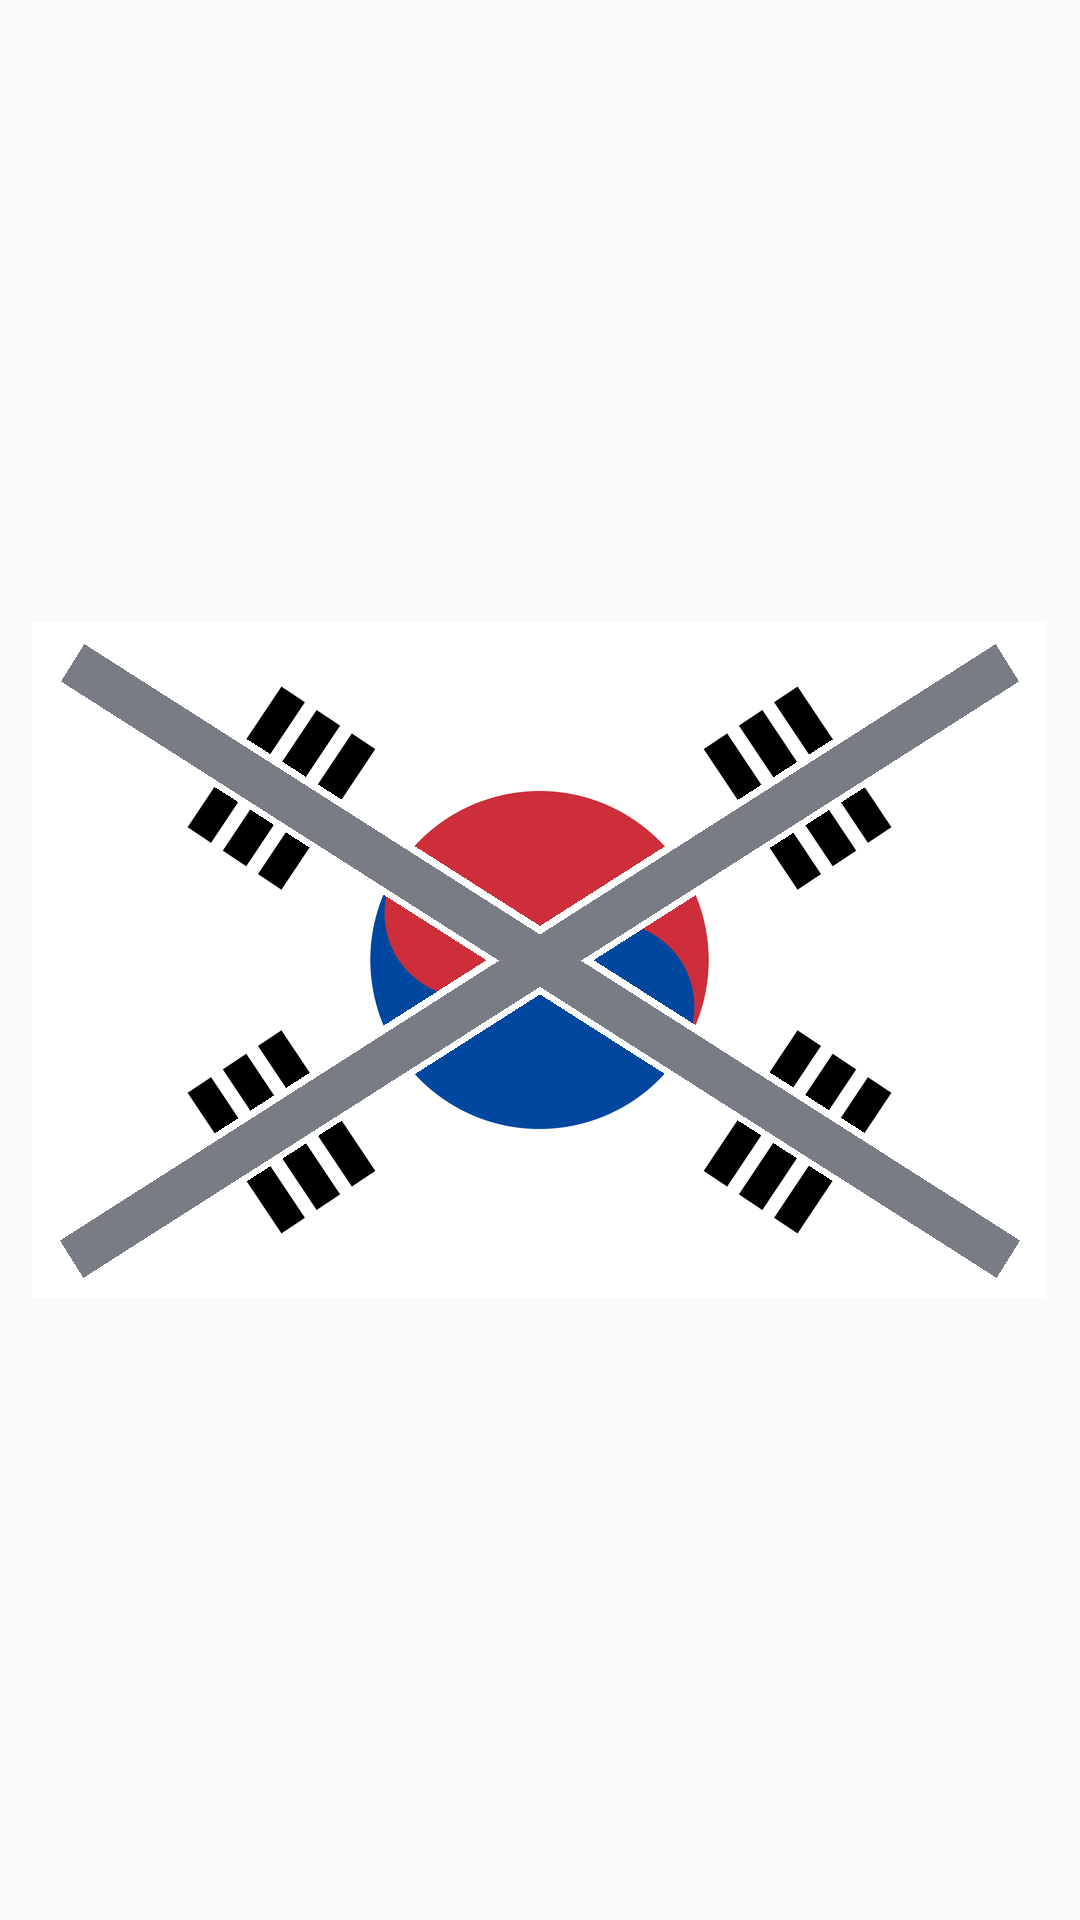
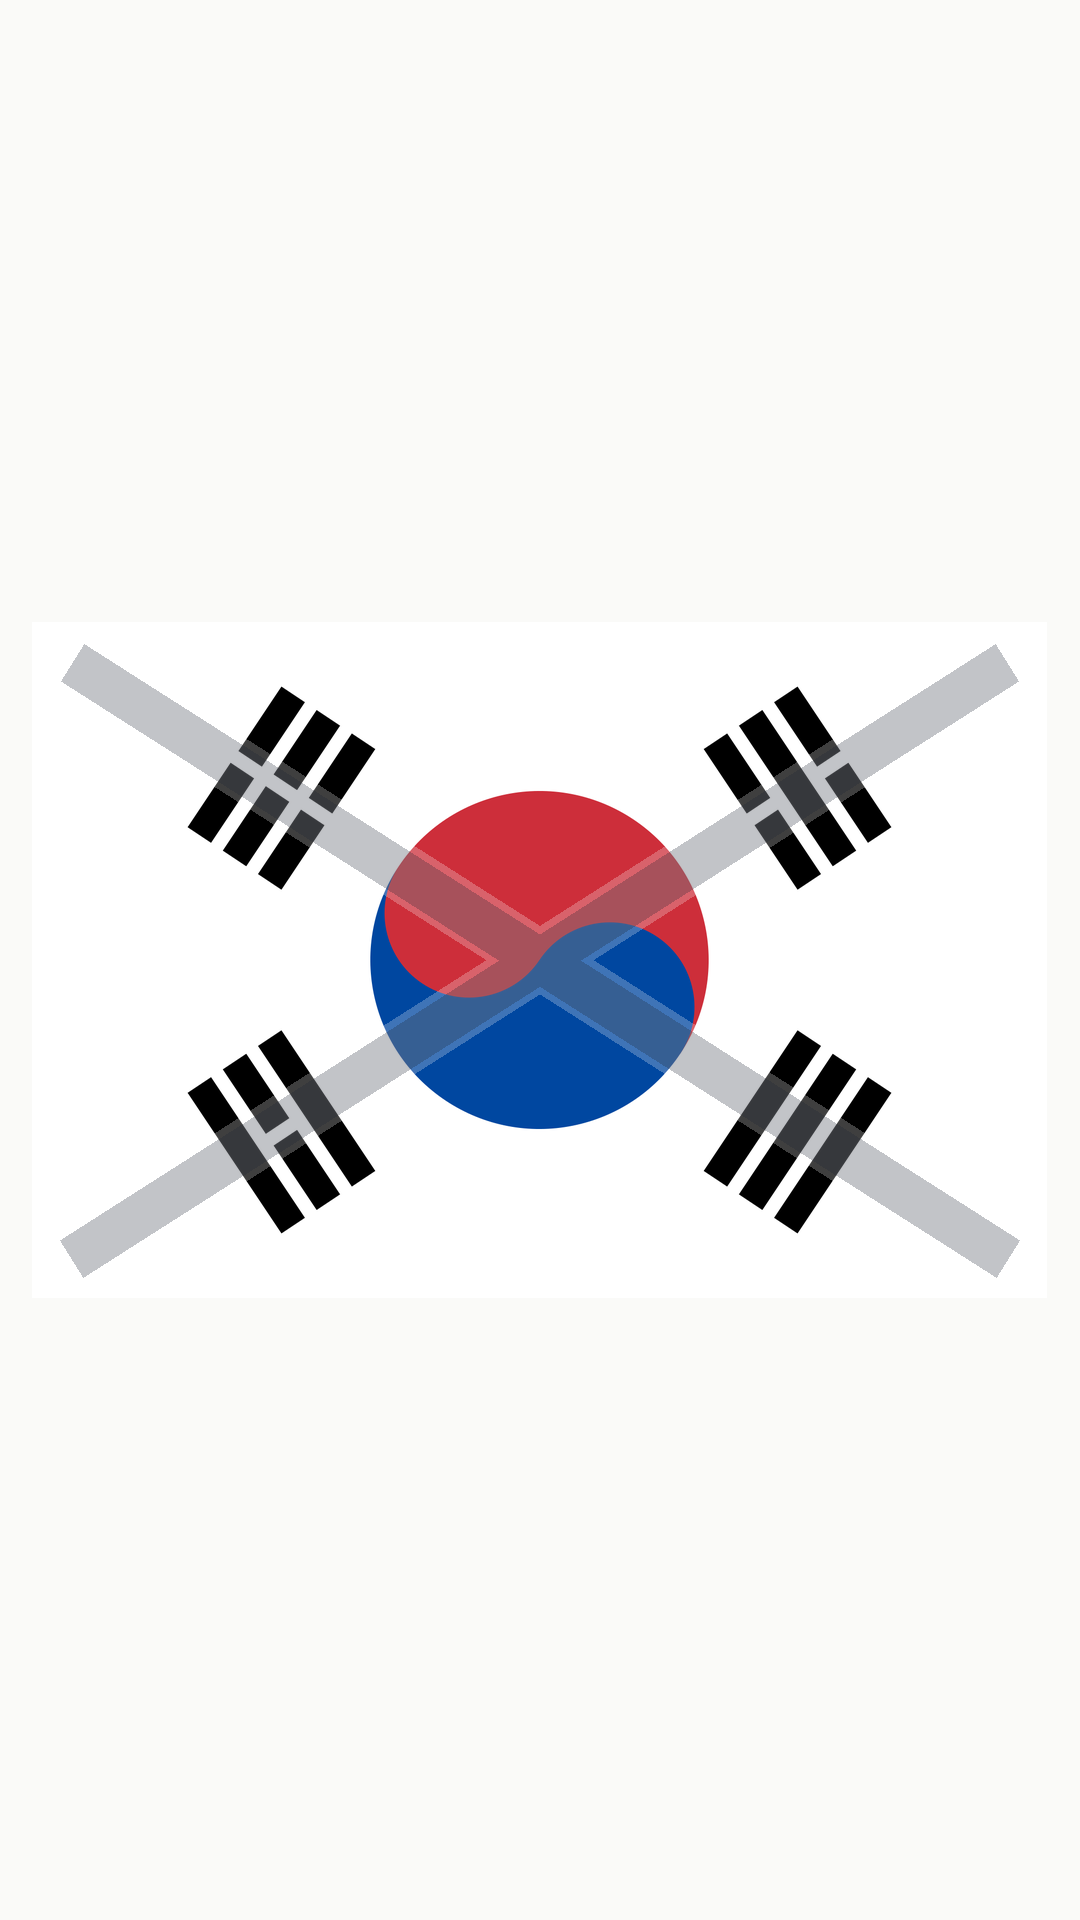
태극기 퀴즈편 완성: X 반투명·고정 배경(file! 스킴)·light-bg 스크림·훅 레이아웃
- 오답 X를 반투명으로 (괘·태극이 비쳐야 오답 판단 가능 — 디렉터)
- file!: 스킴 신설 = 켄번즈 없이 고정 (문제 화면은 움직이면 안 된다)
- --light-bg: 흰 도판 배경용 약한 스크림 (흰 배경이 회색으로 죽던 문제)
- still 렌더는 확대·크롭 없이 그대로 (정답 태극기 잘림 수정)
- 훅 연장 + 4보기가 자막에 안 가리게 배치

Changed region(s): [[0.0611, 0.3125, 0.9472, 0.6875]]

diff --git a/pipeline/make_short.py b/pipeline/make_short.py
@@ -331,7 +331,7 @@ def make_glow(r, color, alpha):
     ImageDraw.Draw(im).ellipse([r * 0.3, r * 0.3, s - r * 0.3, s - r * 0.3], fill=color + (alpha,))
     return im.filter(ImageFilter.GaussianBlur(r * 0.35))
 
-def render(script, timeline, out_dir, total_dur, channel_chip, video_bg, fx_underline=False):
+def render(script, timeline, out_dir, total_dur, channel_chip, video_bg, fx_underline=False, light_bg=False):
     """video_bg=True → 투명 오버레이 PNG(+스크림), False → 그라데이션 JPG."""
     if not video_bg:
         BG = make_bg()
@@ -377,6 +377,8 @@ def render(script, timeline, out_dir, total_dur, channel_chip, video_bg, fx_unde
     # (상단 칩존 150 / 중앙 95 — 배경이 살아남 / 자막존 160 — 대비 확보 / 하단 140)
     scrim = Image.new("RGBA", (W, H))
     _sd = ImageDraw.Draw(scrim)
+    # 흰 도판(퀴즈·비교 이미지) 배경은 스크림이 과하면 회색으로 죽는다 → --light-bg로 약화 (2026-08-15)
+    _k = 0.42 if light_bg else 1.0
     for _y in range(H):
         r = _y / H
         if r < 0.16:  a_ = 150
@@ -385,7 +387,7 @@ def render(script, timeline, out_dir, total_dur, channel_chip, video_bg, fx_unde
         elif r < 0.72: a_ = 160
         elif r < 0.80: a_ = int(160 + (140 - 160) * (r - 0.72) / 0.08)
         else:          a_ = 140
-        _sd.line([(0, _y), (W, _y)], fill=(0, 0, 0, a_))
+        _sd.line([(0, _y), (W, _y)], fill=(0, 0, 0, int(a_ * _k)))
 
     for fi in range(total):
         t = fi / FPS
@@ -522,6 +524,7 @@ def main():
     ap.add_argument("--no-fx-zoom", dest="fx_zoom", action="store_false", help="슬로우 줌 끄기")
     ap.set_defaults(fx_xfade=True, fx_zoom=True)   # 2026-08-09 디렉터 채택 ("0+1+2로") — 기본 on
     ap.add_argument("--fx-underline", action="store_true", help="강조어 ACCENT 밑줄")
+    ap.add_argument("--light-bg", action="store_true", help="흰 도판 배경용 약한 스크림 (2026-08-15)")
     ap.add_argument("--fx-sfx", action="store_true", help="배경 전환 소프트 스윕음 (-18dB)")
     ap.add_argument("--no-fx-cine", dest="fx_cine", action="store_false", help="시네마틱 톤 끄기")
     ap.set_defaults(fx_cine=True)   # 2026-08-11 디렉터 채택 ("영상은 일단 ㅇㅋ") — 기본 on
@@ -782,7 +785,7 @@ def main():
                     if p is None:
                         sys.exit("기각: 지정 사진 %s 다운로드 실패" % b)
                     cache[b] = {"kind": "photo", "path": p}
-                elif isinstance(b, str) and b.startswith("file:"):
+                elif isinstance(b, str) and (b.startswith("file:") or b.startswith("file!:")):
                     # 로컬 파일 배경 (make_long.py와 동일 스킴, 2026-08-12)
                     p = b.split(":", 1)[1]
                     if not os.path.isabs(p):
@@ -791,8 +794,14 @@ def main():
                         sys.exit("기각: 지정 로컬 배경 %s 없음" % p)
                     if os.path.splitext(p)[1].lower() in (".jpg", ".jpeg", ".png", ".webp"):
                         # 로컬 사진 → 켄 번즈 (2026-08-13 유성우 실사진 편: CC/PD 소스는 Pexels 밖에서 온다)
-                        print("배경 사진(로컬, 켄 번즈): %s" % os.path.basename(p), flush=True)
-                        cache[b] = {"kind": "photo", "path": p}
+                        # 단 "file!:" 처럼 '!'를 붙이면 고정(줌 없음) — 문제 화면·비교 도판처럼
+                        # 화면 전체를 한눈에 봐야 하는 배경용 (2026-08-15 디렉터: "포커싱 이동 말고 중앙에 그냥 떠있게")
+                        if b.startswith("file!:"):
+                            print("배경 사진(로컬, 고정): %s" % os.path.basename(p), flush=True)
+                            cache[b] = {"kind": "still", "path": p}
+                        else:
+                            print("배경 사진(로컬, 켄 번즈): %s" % os.path.basename(p), flush=True)
+                            cache[b] = {"kind": "photo", "path": p}
                     else:
                         print("배경 영상(자체 제작): %s" % os.path.basename(p), flush=True)
                         # graphic: 이미 최종 프레이밍이라 줌·시네톤을 걸지 않는다 (가장자리 요소가 잘림)
@@ -850,7 +859,7 @@ def main():
                 print("경고: 배경 구간 %.1fs — 한 구도 12초 초과는 이탈 구간이 된다. bg_ids 수를 늘려라" % sl, flush=True)
 
     # 3) 렌더 + BGM
-    render(script, timeline, work, total_dur, script.get("chip", "오늘의 지식 · 1일 1지식"), video_bg, fx_underline=args.fx_underline)
+    render(script, timeline, work, total_dur, script.get("chip", "오늘의 지식 · 1일 1지식"), video_bg, fx_underline=args.fx_underline, light_bg=args.light_bg)
     bgm = os.path.join(work, "bgm.wav")
     twist_spans = [(tl["start"], tl["end"]) for sc_, tl in zip(script["scenes"], timeline)
                    if sc_.get("kind") == "twist"]
@@ -861,7 +870,7 @@ def main():
     if video_bg:
         nb = len(bg_items)
         for it in bg_items:
-            if it["kind"] == "photo":
+            if it["kind"] in ("photo", "still"):
                 cmd += ["-loop", "1", "-i", it["path"]]
             else:
                 cmd += ["-stream_loop", "-1", "-i", it["path"]]
@@ -889,6 +898,14 @@ def main():
                     "zoompan=%s:d=%d:s=%dx%d:fps=%d,eq=saturation=0.88:brightness=-0.02,"
                     "setsar=1,trim=duration=%.3f,setpts=PTS-STARTPTS[b%d]"
                     % (i, W * 2, H * 2, W * 2, H * 2, styles[i % 3], fr, W, H, FPS, seg, i))
+            elif it["kind"] == "still":
+                # 고정 배경: 줌·이동 없이 그대로 (문제 화면·비교 도판 — 2026-08-15)
+                # 이미 1080x1920로 만든 도판이므로 확대·크롭하지 않는다 (잘림 방지, 2026-08-15)
+                parts.append(
+                    "[%d:v]scale=%d:%d:force_original_aspect_ratio=decrease,"
+                    "pad=%d:%d:(ow-iw)/2:(oh-ih)/2:color=0xF7F6F3,setsar=1,fps=%d,"
+                    "trim=duration=%.3f,setpts=PTS-STARTPTS[b%d]"
+                    % (i, W, H, W, H, FPS, seg, i))
             elif it["kind"] == "graphic":
                 # 자체 도해: 줌·시네톤 없이 원본 프레이밍 그대로 (2026-08-12)
                 parts.append(

diff --git a/content/trends_latest.md b/content/trends_latest.md
@@ -1,70 +1,73 @@
-# 실시간 트렌드 다이제스트 — 2026-08-14 20:04
+# 실시간 트렌드 다이제스트 — 2026-08-15 07:02
 > 소재 스카우팅 전용. 채택 전 3중 게이트(원출처·시점·제작 후) 필수. 커뮤니티발은 사실 검증 없이는 '감정의 온도' 참고로만.
 
 ## 구글 트렌드 급상승(KR)
-- 한화 대 삼성 (?)
-- 테라파워 (?)
-- hj중공업 (?)
-- 최형우 (?)
-- 서울 날씨 (?)
-- 이상화 (?)
-- 용산산호아파트 (?)
-- 제럴드 r 포드 급 항공 모함 (?)
-- 애플 (?)
-- 경마 (?)
+- 박시은 (?)
+- 윤석열 (?)
+- 이혼숙려캠프: 새로고침 (?)
+- lg이노텍 (?)
+- 샌디스크 (?)
+- 김다현 (?)
+- 박서진 (?)
+- 성심당 (?)
+- 잠수함 (?)
+- 장동혁 (?)
 
 ## 유튜브 인기 급상승(KR)
-- STUCK! — pH-1 - Topic (129,884회)
-- 들쥐 | 공식 예고편 | 넷플릭스 — Netflix Korea 넷플릭스 코리아 (79,007회)
-- 가정 파탄 낸 김민교 보고 빡친 이상호ㅋㅋㅋㅋ — 튜브김민교 (161,434회)
-- AxMxP (에이엠피) - 나를 만나야 할 10가지 이유 MV — AxMxP (1,000,529회)
-- 「침향 외전」공식 예고편 | Trailer Modern AU Spin-off | AI BL Drama [CHIMHYANG: Scent of the Needle] — Late Blue Night (82,241회)
-- 금빛 섬광 — 괴물쥐 유튜브 (293,609회)
-- Three days after — HYNN - Topic (78,019회)
-- 무한다이노 오우너 [마크 코블몬 EP.05] — 말왕TV (436,345회)
-- That Way — KATSEYE - Topic (256,685회)
-- "공속 4.98" 롤 역사상 이런 챔프는 없었습니다. 리워크로 후반 밸류의 신이 되어버린 "정글 벨베스 전략" 💀 — 전략적죽음 (142,104회)
-- feel myself — Jae - Topic (58,298회)
-- 이것은 내가 최고의 팀을 만들기까지의 이야기이다ㅣ펨플릭스 뉴캐슬 EP.完 — 동수칸TV (135,804회)
-- Pop Off Pop Off — KiiiKiii - Topic (676,953회)
-- 배치챌 중 만난 부캐듀오 ㄷㄷ【배치부터 챌린저 #3】 — 이석현 (118,733회)
-- 황영웅 팬 정모_모르리 — 황영웅 Tv (56,440회)
+- STUCK! — pH-1 - Topic (148,656회)
+- 들쥐 | 공식 예고편 | 넷플릭스 — Netflix Korea 넷플릭스 코리아 (104,851회)
+- 감스트 본캐 500경 레알스쿼드+2200만원 현질!! fc온라인 — 감스트GAMST (343,335회)
+- Three days after — HYNN - Topic (99,139회)
+- 「침향 외전」공식 예고편 | Trailer Modern AU Spin-off | AI BL Drama [CHIMHYANG: Scent of the Needle] — Late Blue Night (87,104회)
+- 아내 첫 공개 하자마자 울려버린 남자 — 말왕TV (431,495회)
+- AxMxP (에이엠피) - 나를 만나야 할 10가지 이유 MV — AxMxP (1,245,643회)
+- 🔥혜안져스 노움강도단 이제 ㄱㅐ잘합니다ㅋㅋㅋㅋㅋㅋㅋㅋ🔥 — 혜안 (236,004회)
+- That Way — KATSEYE - Topic (451,672회)
+- 가정 파탄 낸 김민교 보고 빡친 이상호ㅋㅋㅋㅋ — 튜브김민교 (237,703회)
+- feel myself — Jae - Topic (84,406회)
+- T1 vs DK - NS vs BRO | 2026 LCK — LCK Global (923,169회)
+- 황영웅 팬 정모_모르리 — 황영웅 Tv (70,159회)
+- 복사가 됐어 이거 뭐야 — 괴물쥐 유튜브 (164,058회)
+- Pop Off Pop Off — KiiiKiii - Topic (732,429회)
 
 ## 네이버 랭킹뉴스(많이 본)
-- “신혼집 장만할 돈으로 하이닉스 샀는데” “국장 믿은 내가 바보” 심각한 ‘동학개미’ 현실 전한 외신
-- “독립운동가 후손, 가난 대물림”…하영 ‘집안 자랑’에 “비통해” 토로한 女아나운서
-- 나흘동안 16% 오르자 “괜히 팔았나”…최태원 “전쟁같은 상황” [나만없어]
-- 클럽 앞 잠든 여성 끌고가 성폭행… 한국 여행 왔던 20대 외국인 ‘준강간’ 혐의 구속송치
-- “지드래곤 치아도 남다르네” 다이아 ‘반짝’…멋지다고 따라했다간 ‘독’ 될 수도[라이프]
-- "30초씩 6번 전력질주했더니"…몸속에서 벌어진 놀라운 변화
-- 갤럭시Z폴드8 뜯어보니…"힌지에 먼지 유입 주의"
-- 40도 폭염에도 PC 케이스 강화유리 자파현상 '잠잠'...왜?
-- 우주에서 포착된 ‘왕관’ 쓴 화산…하얀 화산재 뒤덮였다 [우주서 본 지구]
-- 손목에 쇠사슬 묶인 고대 유골 무더기 발견…무슨 일?
-- "보너스 쏟아부었는데…" SK하이닉스 투자한 직장인 '피눈물'
-- [단독] "왜 이렇게 아이폰 많나" 했는데…삼성 스마트폰 '반격' [갤럭시 중간결산(上)]
-- '이완용 살려낸 의사' 하영 증조부 감싼 日…"현대판 연좌제"
-- 독립운동가 후손 곽민선, '하영 논란'에 "비통하고 먹먹"
-- "술값 아까워서?" 아니었다…20대들 술 안 마시는 진짜 이유
+- ‘친일 명단’ 1만장 훑은 일본인…“가장 폭력적인 일본, 고통 가중한 친일파”
+- 태풍 ‘돌핀’ 고마워, 광복절 연휴에 많은 비…극한가뭄 진정될까
+- “하영 증조부, 친일 맞아…청산 없이 기득권 세습된 구조 성찰해야”
+- 이 대통령 “4년 중임제 개헌, 대선 공약…임기 단축 필요시 수용 가능”
+- 최태원, 노소영에 ‘9440억 재산분할’ 불복…다시 대법으로
+- “보통 저기압과 달라”…태풍이 남긴 비구름 남해안 최대 200mm↑
+- 폭염에 주 5일 공쳤다…‘작업중지’에 날아간 일당
+- 청와대 “‘4년 중임제’ 국민 수용성 높아”…이 대통령 “개헌 입장 변함 없어”
+- 최태원·노소영 재산 분할 대법원으로…최태원 재상고
+- ‘감성 사진용’ 중고 아이폰 판매 뒤 잠적…경찰 수사 착수 [제보K]
+- '독립운동가 후손' 곽민선 아나운서, 하영 논란에 "비통한 마음"
+- 김민희·홍상수, 득남 후 첫 공식 석상…"아이와 촬영장 다녀"
+- 최태원·노소영 다시 대법으로…연장된 '재산 분할'
+- 청년은 빌라 사라?…금융위 "틈새시장 추가 기회 제공"
+- 집 보러 갔다 '맹견' 공격 받은 부부…핏불테리어 물려 큰 부상
 
 ## 네이트판 실시간 톡
+- 노처녀 팀장
+- 카페알바 노인손님 진짜 ...
+- 지능 높은 사람 만나기 힘듬
+- 짜증들어주는것도 은근히 힘드네
+- 여왕벌 사장님 때문에 미치겠음
+- 00년생 27살 여자인데 진짜 모은돈 ...
 - 회사에서 동료한테 제일 정떨어지는 포인트
-- 내가 살땐 늘 지가산거보다 단가 높...
-- 회사에서 극우라고 따돌림...
-- 00년생 27살 여자인데 진짜 모은...
-- 일없는 회사
 - 내가 살땐 늘 지가산거보다 단가 높여 ...
-- 말 섞으면 피곤한 사람들...
-- 원래 결혼전날 일해?
-- 마트 주차장서 차량 추락…20대 여...
-- 문신 얘기 나올 때마다 애 낳으면 ...
-- 여자 27살에 월 270 버는거면 ...
-- 난 하영 사건으로 소록도 사건 처음 알...
+- 돈안갚는 인간들 다 이렇...
+- 하영 사태 일본 반응
+- 와 근데 자식농사망하면 진짜 인생망...
+- 딸낳으면 진짜 이쁘게 키울거임
 
 ## 디시 실시간 베스트
 - 말빨로 정치인도 이길 것 같은 스타는?
 
 ## 오늘의유머 베오베
+- 12층에서 투신한 친구를 맨손으로 받아낸 여고생
+- 독일에서 도둑질했다가 걸린 국회의원 jpg
+- 일본에 새로 리뉴얼한 호텔이 형무소같이 생겼다
 - 39살 신입이 들어왔다
 - 밀정의 정체를 알게 된 독립운동가 후손
 - 현대차 사진공모전 1등한 사람
@@ -74,6 +77,3 @@
 - 독립운동가의 후손인 배우 김지석
 - 성당 젊은애들이 너무 친절하다는 어머님
 - 편의점 갔다 왔는데 눈물이 납니다
-- 진짜 알수록 무슨 현실을 게임처럼 살다간 급의 인물, 이봉창.jpg
-- 로또 1등 당첨 후기
-- 하영 언급했던 트위터 근황
